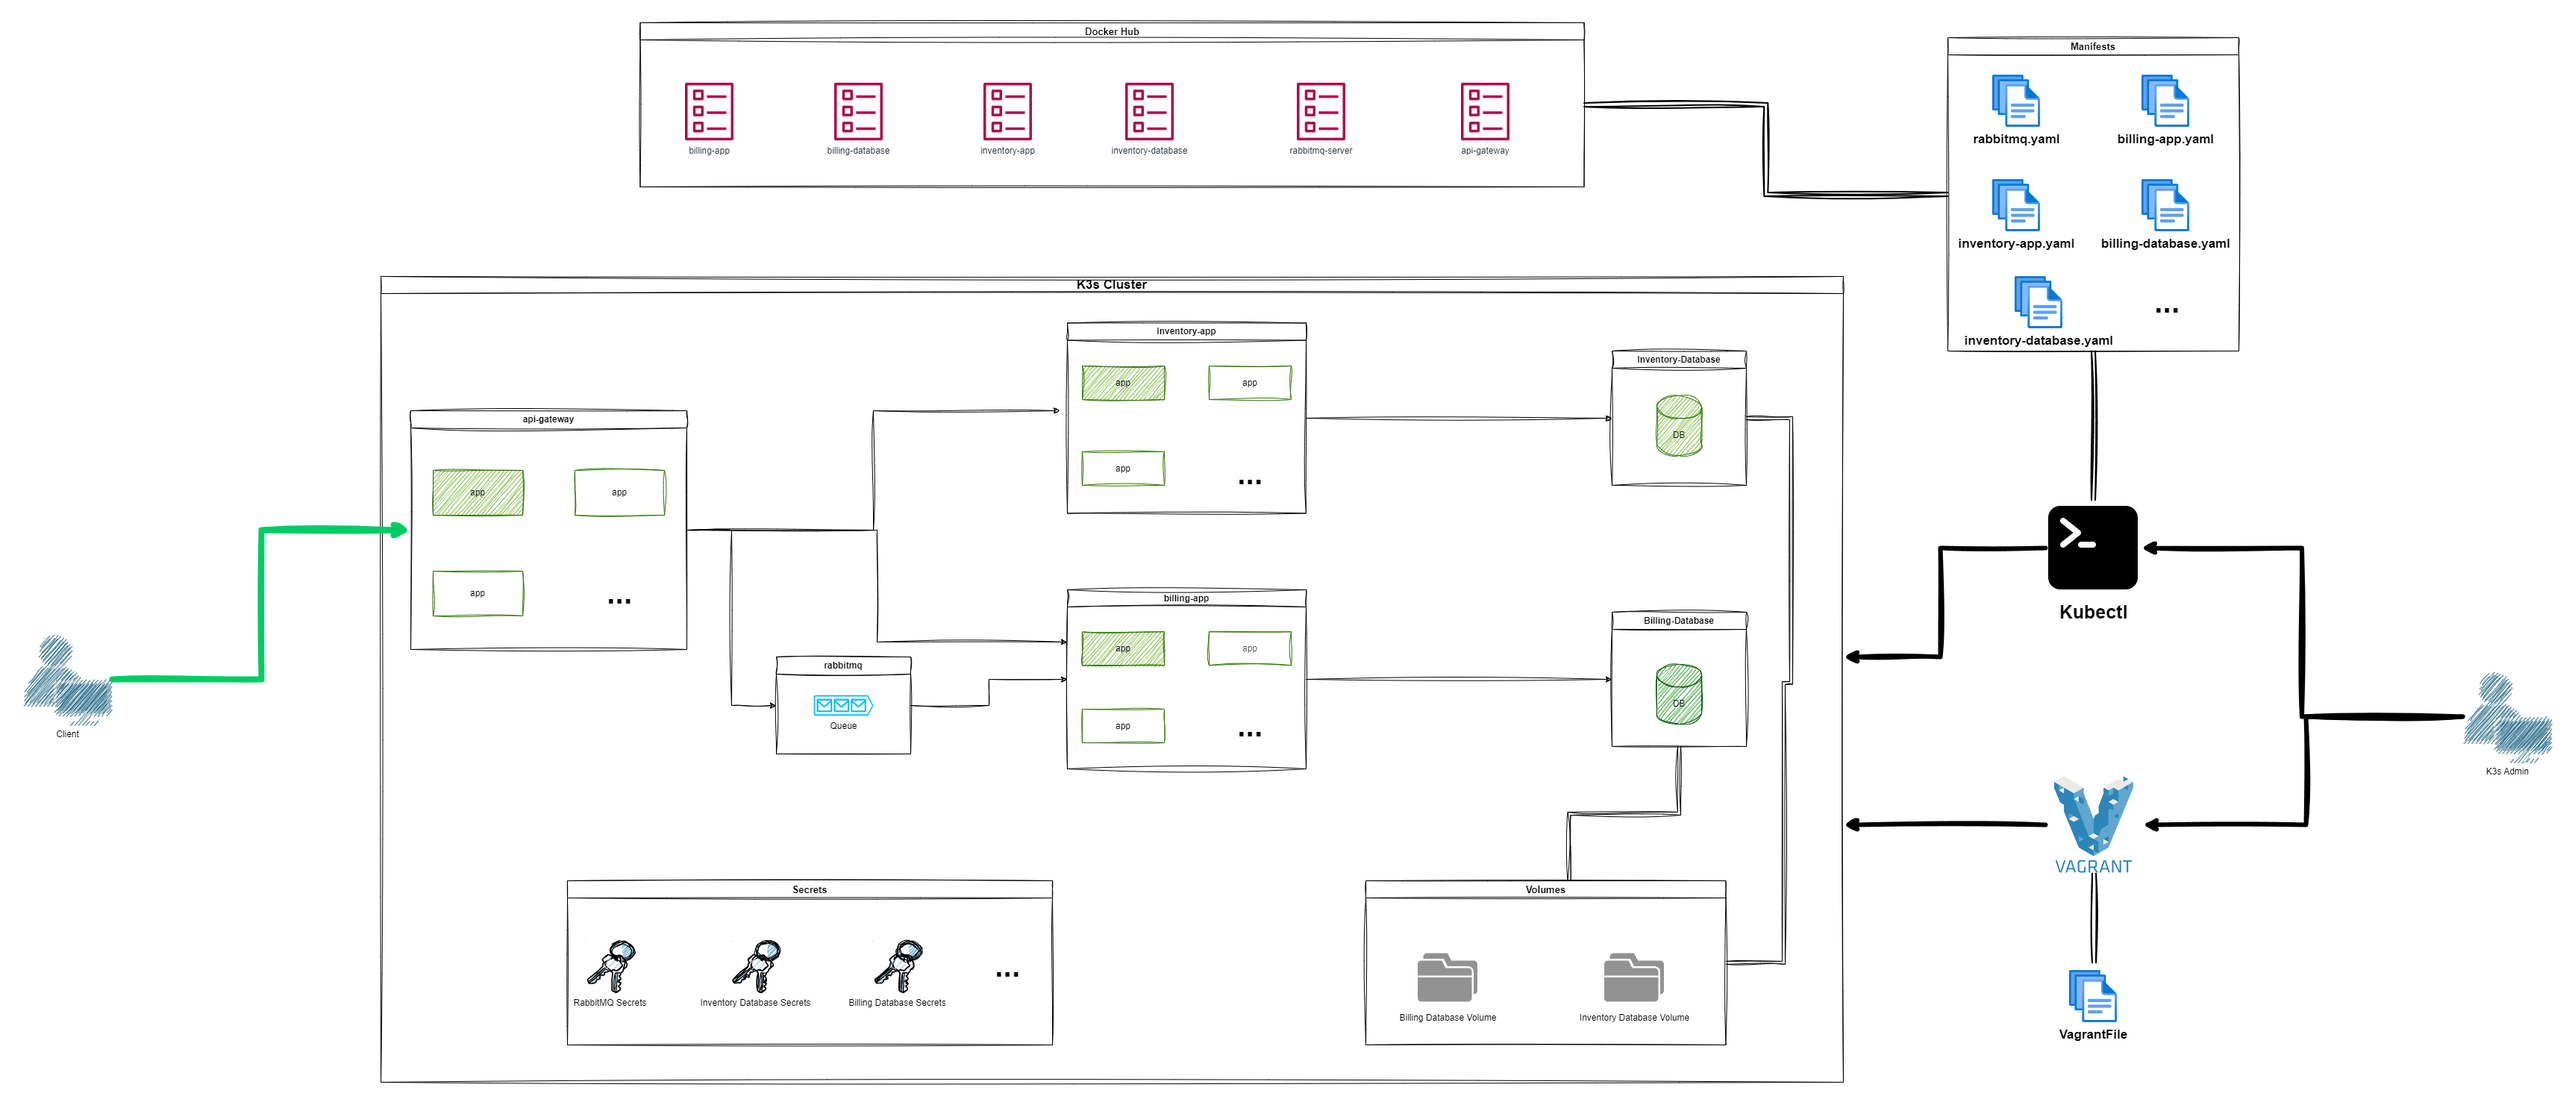
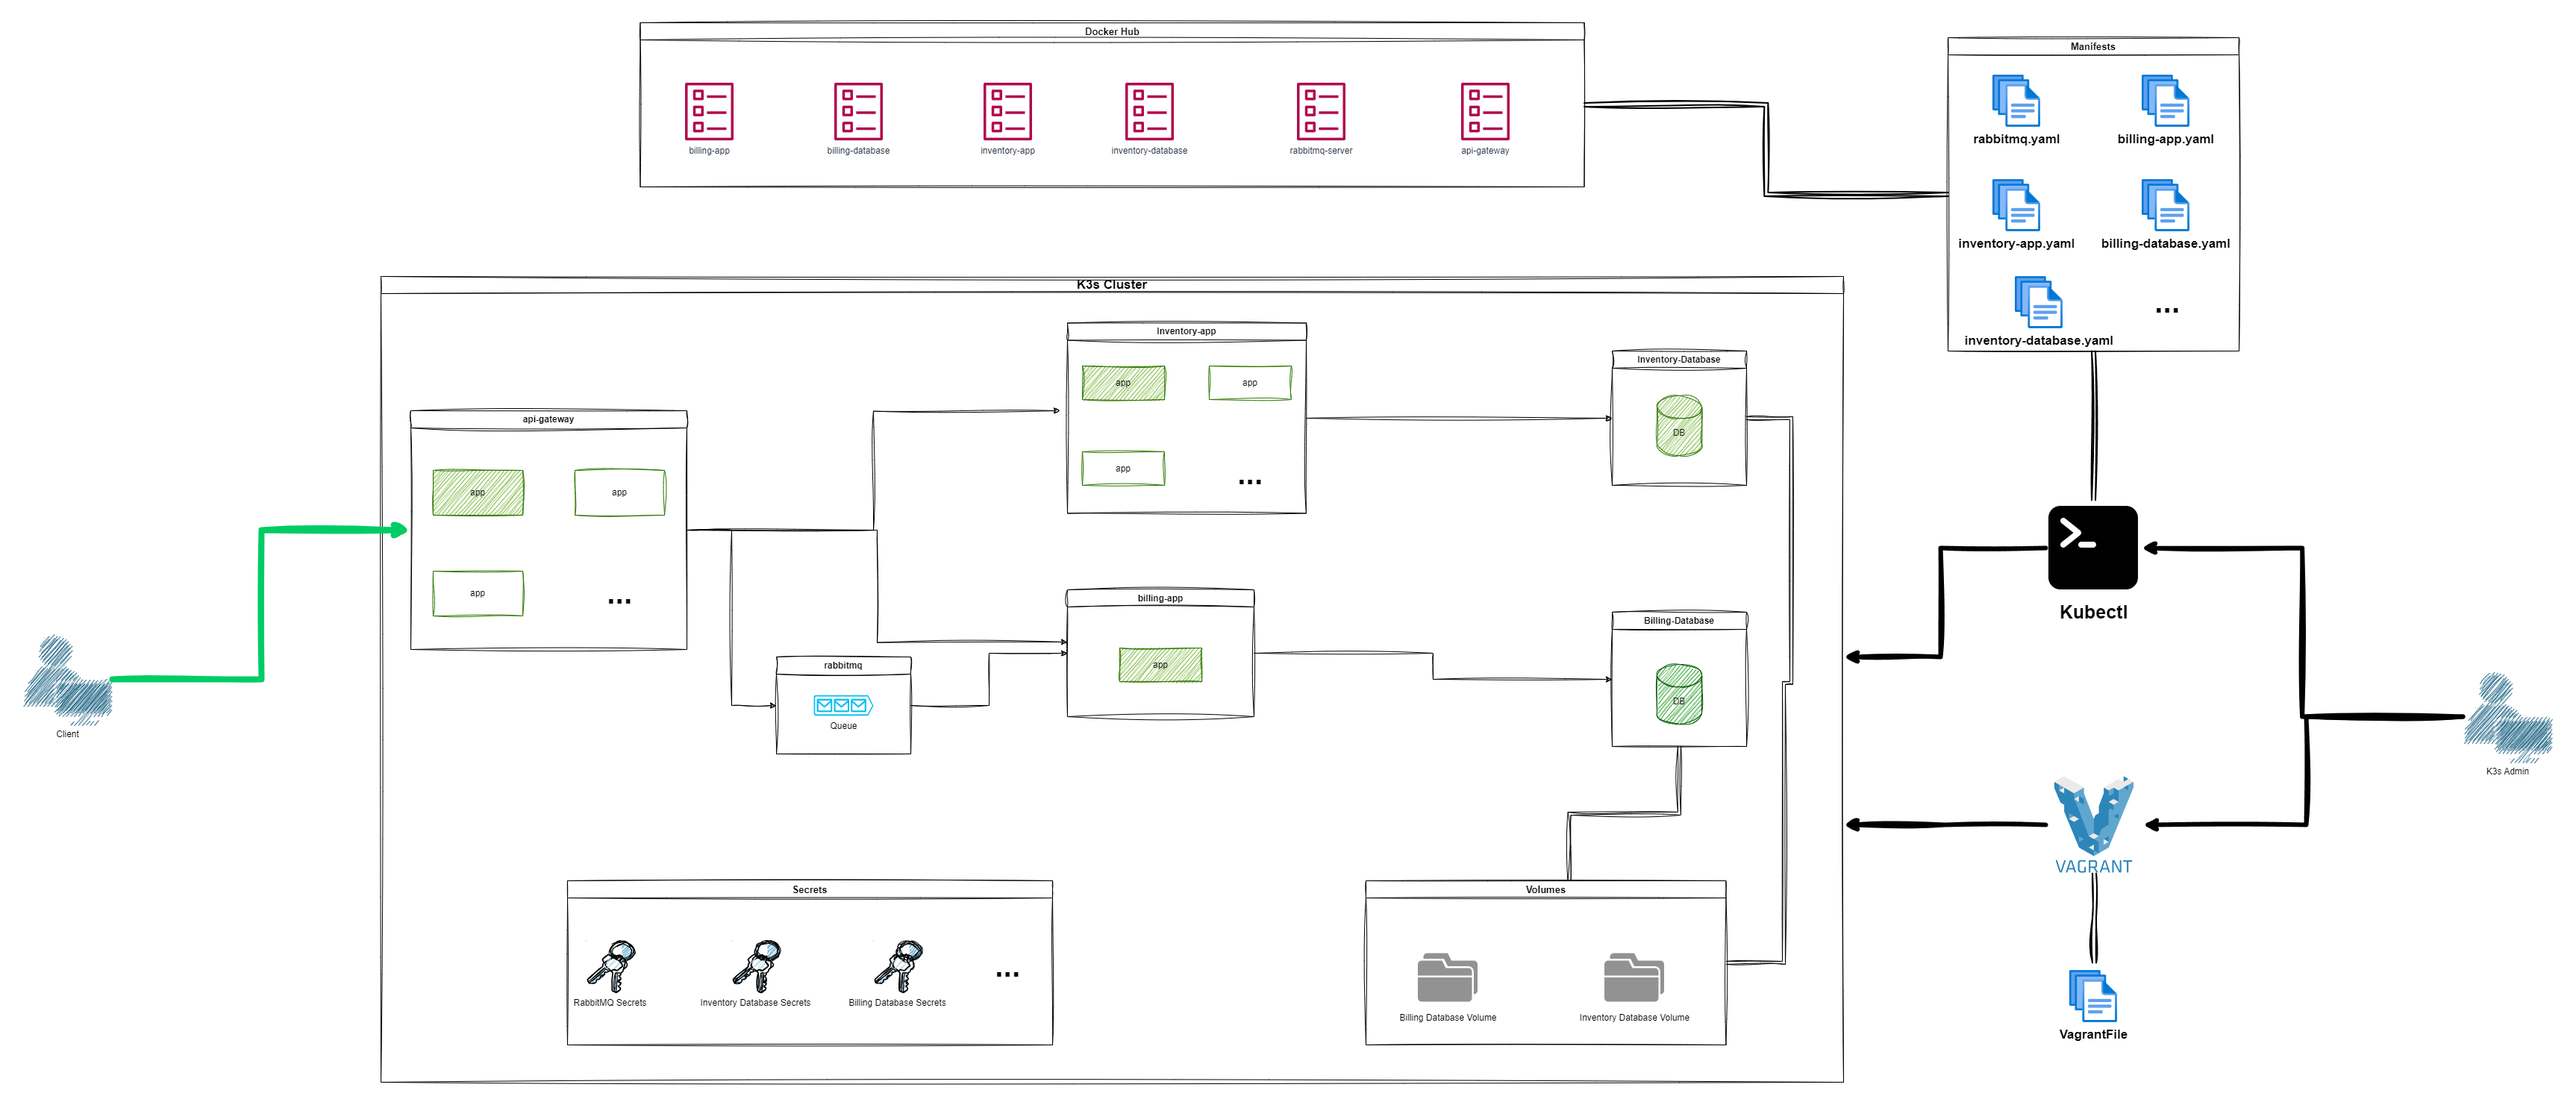
docs(orchestrator) fix architecture issue, billing app can't be scalable

diff --git a/subjects/devops/orchestrator/README.md b/subjects/devops/orchestrator/README.md
@@ -83,14 +83,9 @@ You must store your passwords and credentials as a K8s secrets.
 
 ### Node.js apps
 
-Your Node.js applications must be deployed as a deployment and they must be scaled horizontally automatically, depending on CPU consumption.
+This Node.js applications must be deployed as a deployment and they must be scaled horizontally automatically, depending on CPU consumption.
 
 - `api-gateway`:
-  max replication: 3
-  min replication: 1
-  cpu percent trigger: 60%
-
-- `billing-app`:
   max replication: 3
   min replication: 1
   cpu percent trigger: 60%
@@ -99,6 +94,10 @@ Your Node.js applications must be deployed as a deployment and they must be scal
   max replication: 3
   min replication: 1
   cpu percent trigger: 60%
+
+This Node.js application must be deployed as StatefulSet:
+
+- `billing-app`
 
 ### Databases
 

diff --git a/subjects/devops/orchestrator/audit/README.md b/subjects/devops/orchestrator/audit/README.md
@@ -136,15 +136,14 @@ user:~$
    min replication: 1
    cpu percent trigger: 60%
 
-2. `billing-app`:
+2. `inventory-app`:
    max replication: 3
    min replication: 1
    cpu percent trigger: 60%
 
-3. `inventory-app`:
-   max replication: 3
-   min replication: 1
-   cpu percent trigger: 60%
+This Node.js application must be deployed as StatefulSet:
+
+1. `billing-app`
 
 ###### Do all apps deploy with the correct configuration?
 
